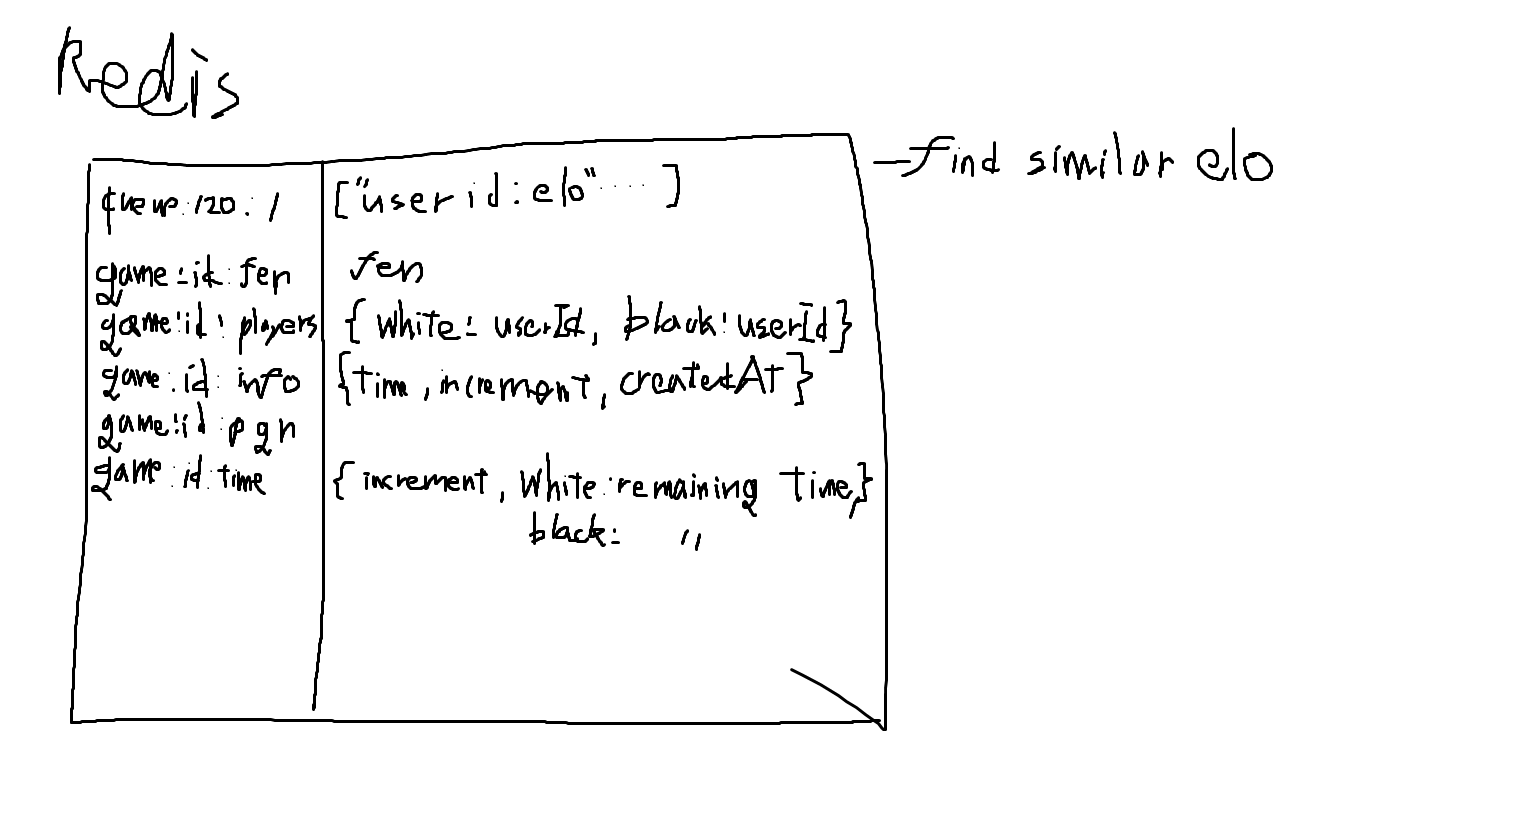
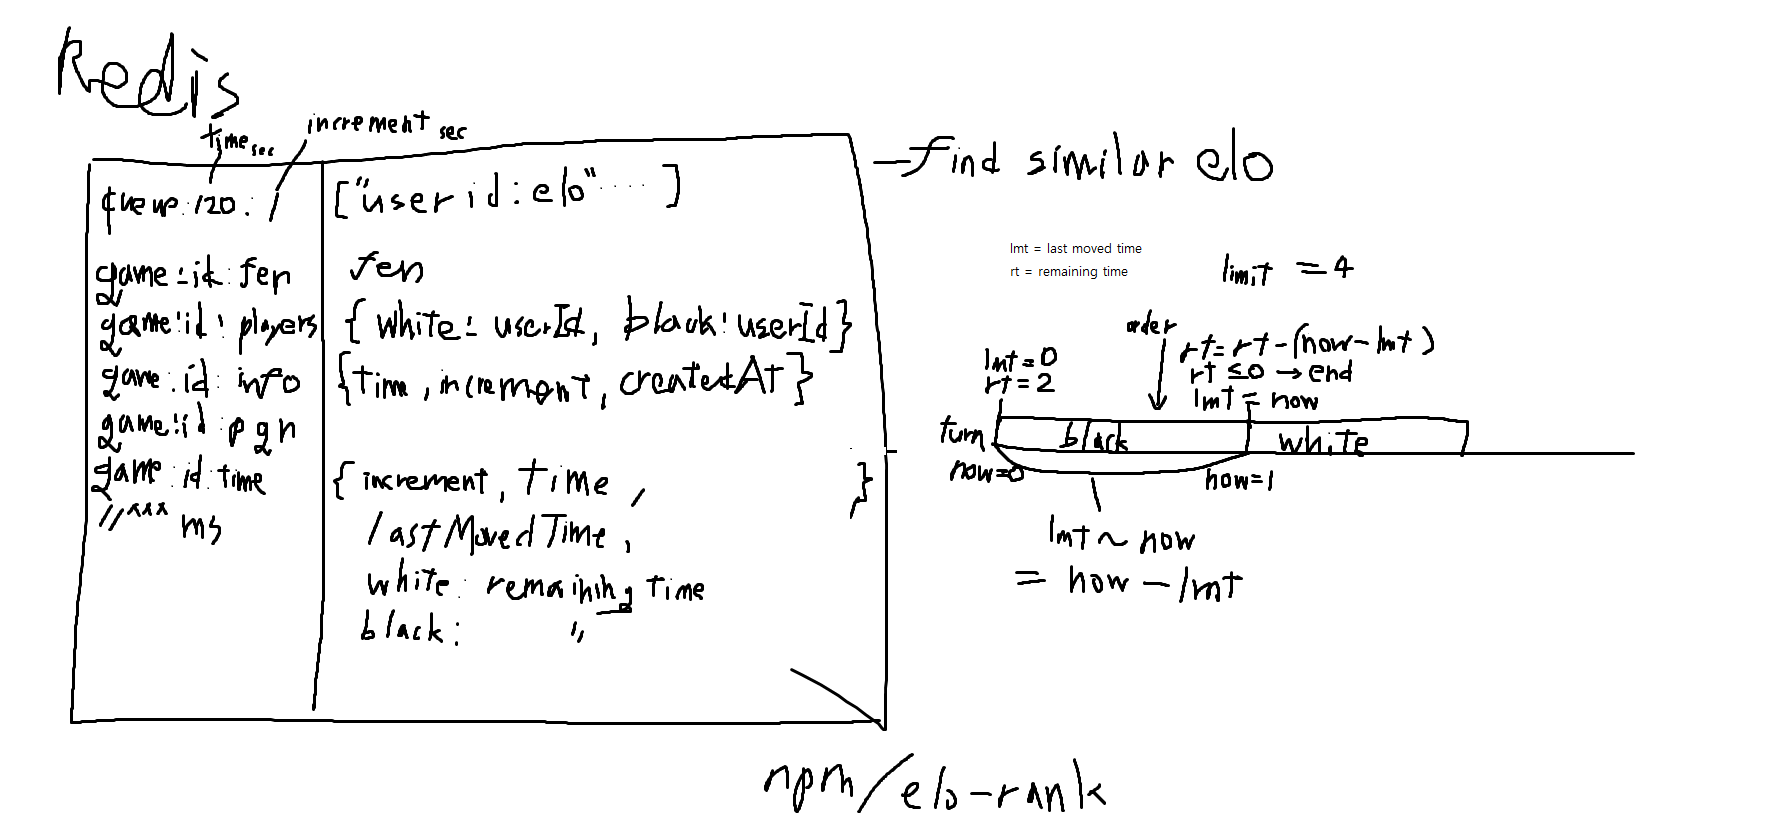
feat: implement the MOVE event

diff --git a/backend/src/ws/events/game/Move.ts b/backend/src/ws/events/game/Move.ts
@@ -1,32 +1,90 @@
 import { Chess } from "chess.js"
-import { EventFile } from "../../../types/events.js"
+import { EventFile, EventRes } from "../../../types/events.js"
 import { redisClient } from "../../../db/redis.js"
 import { verify } from "../../../auth/jwt.js"
 import { broadcast } from "../../../utils/broadcast.js"
+import { z } from "zod"
+
+const moveEventParam = z.object({
+  gameId: z.string(),
+  from: z.string(),
+  to: z.string(),
+  promotion: z.string().optional(),
+})
 
 const MoveEvent: EventFile = {
   name: "MOVE",
   execute: async ({ ws, cookie }, arg) => {
+    const now = Date.now()
+
     // TODO: validate a token from cookies and if not valid, don't make a move
 
-    const args = arg.split(" ")
-    const gameId = args.shift()?.trim()
-    const move = args.shift()?.trim()
+    const parsedArg = moveEventParam.safeParse(JSON.parse(arg))
 
-    if (!gameId || !move) return
+    if (!parsedArg.success) return
 
-    const [fen, players, verified] = await Promise.all([
-      redisClient.get(`game:${gameId}:fen`),
-      redisClient.lRange(`game:${gameId}:players`, 0, -1),
+    const { gameId: rawGameId, from, to, promotion } = parsedArg.data
+
+    const gameId = `game:${rawGameId}`
+
+    const [pgn, players, time, user] = await Promise.all([
+      redisClient.get(`${gameId}:pgn`),
+      redisClient.hGetAll(`${gameId}:players`),
+      redisClient.hGetAll(`${gameId}:time`),
       verify(cookie.token),
     ])
 
-    if (!fen) return
-    if (!players.includes(verified.id.toString())) return
+    if (!pgn || !user || !players || !time) return // what about creating them instead of returning?
 
-    const chess = new Chess(fen)
+    const foundTurn = Object.entries(players).find(
+      ([_, value]) => value == user.id,
+    )
 
-    broadcast(ws.clients, JSON.stringify({ board: chess.board(), id: gameId }))
+    if (!foundTurn) return
+
+    const turn = foundTurn[1].toLowerCase() == "white" ? "w" : "b"
+    const turnFullname = turn == "w" ? "white" : "black"
+
+    const lastMovedTime = Number(time.lastMovedTime)
+    const increment = Number(time.increment)
+
+    const remainingTimeStr = time[turnFullname]
+    const remainingTime = Number(remainingTimeStr)
+
+    if (isNaN(remainingTime) || isNaN(lastMovedTime) || isNaN(increment)) return
+
+    const newRemainingTime = remainingTime - (now - lastMovedTime) + increment
+
+    if (newRemainingTime <= 0) {
+      return // TODO: send a GAME_END event and tell them who's the winner.
+    }
+
+    const chess = new Chess()
+
+    chess.loadPgn(pgn)
+
+    if (chess.turn() !== turn) return
+
+    const move = chess.move({ from, to, promotion })
+
+    const newPgn = chess.pgn()
+
+    await Promise.all([
+      redisClient.set(`${gameId}:fen`, chess.fen()),
+      redisClient.set(`${gameId}:pgn`, newPgn),
+      redisClient.hSet(`${gameId}:time`, "lastMovedTime", now),
+      redisClient.hSet(`${gameId}:time`, turnFullname, newRemainingTime),
+    ])
+
+    broadcast(
+      ws.clients,
+      JSON.stringify({
+        type: "NEW_BOARD",
+        gameId: gameId,
+        time: await redisClient.hGetAll(`${gameId}`),
+        move: move.san,
+      } satisfies EventRes),
+    )
   },
 }
 

diff --git a/backend/src/ws/events/lobby/JoinGame.ts b/backend/src/ws/events/lobby/JoinGame.ts
@@ -25,6 +25,9 @@ const JoinGameEvent: EventFile = {
       redisClient.lRange(queueId, 0, -1),
       verify(cookie.token),
     ])
+
+    if (!user) return
+
     const userInfo = await prisma.user.findUnique({ where: { id: user.id } })
 
     if (!userInfo) return
@@ -73,10 +76,12 @@ const JoinGameEvent: EventFile = {
         increment: parsedArg.data.increment,
         createdAt: Date.now(),
       }),
+
       redisClient.hSet(`${gameId}:time`, {
-        white: parsedArg.data.time,
-        black: parsedArg.data.time,
-        increment: parsedArg.data.increment,
+        white: parsedArg.data.time * 1000,
+        black: parsedArg.data.time * 1000,
+        lastMovedTime: Date.now(),
+        increment: parsedArg.data.increment * 1000,
       }),
     ])
 

diff --git a/backend/src/types/events.ts b/backend/src/types/events.ts
@@ -22,9 +22,13 @@ export const eventRes = z.union([
   z.object({
     type: z.literal("JOIN_GAME"),
     participants: z.array(z.string()),
+    pgn: z.string({ description: "For those who reconnect" }).nullish(),
   }),
   z.object({
     type: z.literal("NEW_BOARD"),
+    gameId: z.string(),
+    move: z.string(),
+    time: z.record(z.string(), z.string()),
   }),
   z.object({
     type: z.literal("GAME_END"),

diff --git a/backend/src/auth/jwt.ts b/backend/src/auth/jwt.ts
@@ -21,7 +21,7 @@ export const verify = async (token: string) => {
   const parsed = JSON.parse(jwt.verify(token, JWT_SECRET).toString())
   const typeChecked = TokenPayload.safeParse(parsed)
 
-  if (!typeChecked.success) throw new Error("Invalid JWT payload")
+  if (!typeChecked.success) return false
 
   return typeChecked.data
 }
